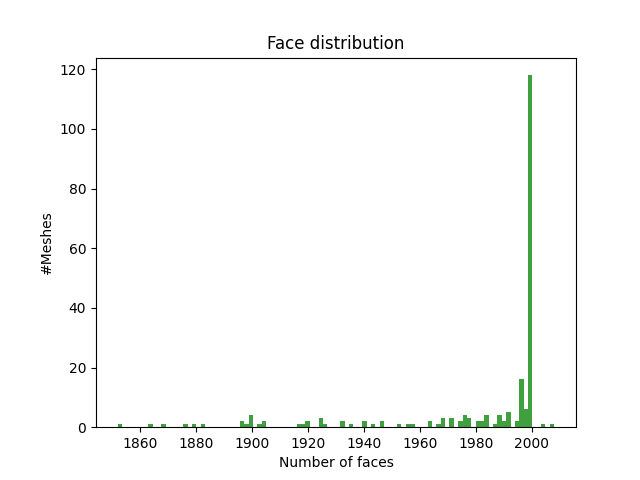
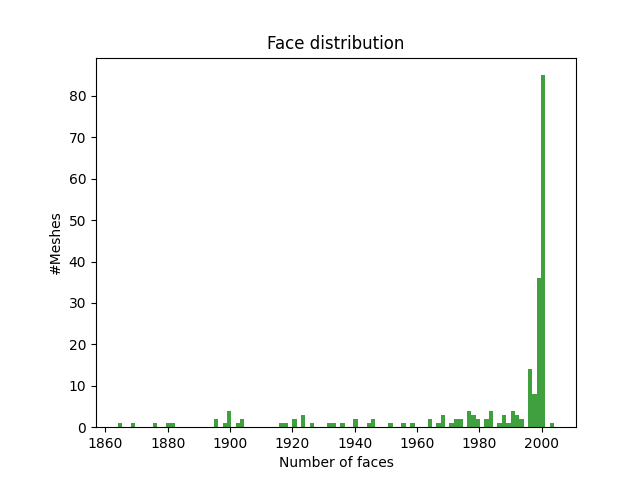
Fixed barycentre and scaling function

diff --git a/preprocess.py b/preprocess.py
@@ -5,7 +5,7 @@ import trimesh
 import analyze
 import subdivision
 import utils
-
+import math
 
 def scale_mesh(mesh, scale):
   # Make a vector to scale x, y and z in the mesh to this value
@@ -31,6 +31,15 @@ def calc_center_mass(mesh):
 
   return meshCenter
 
+def barycenter(mesh):
+  #Returns the face area weighted barycentr of the mesh.
+  faces = np.asarray(mesh.faces)
+  weighted_vertices = []
+  for index, face in enumerate(faces):
+    weighted_vertices.append(mesh.area_faces[index] * utils.get_face_barycentre(face, mesh.vertices))
+  bary_centre = sum(weighted_vertices) / mesh.area
+  return bary_centre
+
 
 def save_mesh(mesh, path):
   utils.ensure_dir(path)
@@ -47,17 +56,14 @@ def save_mesh(mesh, path):
 #     save_mesh(refined_mesh, refined_path)
 #     trimesh.exchange.export.export_mesh(refined_mesh, refined_path, file_type="off")
 
-def normalize_mesh(path):
-  mesh = trimesh.load(path, force='mesh')
-
+def normalize_mesh(mesh):
   # Center the mass of the mesh on (0,0,0)
-  center_mass = calc_center_mass(mesh)
+  center_mass = barycenter(mesh)
   mesh.apply_translation(-center_mass)
 
   # Get the highest value we can scale with so it still fits within the unit cube
-  scale_value = 1 / max(mesh.bounds.flatten())
+  scale_value = 1 / max(abs(mesh.bounds.flatten()))
   mesh = scale_mesh(mesh, scale_value)
-
   return mesh
 
 
@@ -73,6 +79,9 @@ def process_all():
       mesh = subdivision.subdivide(mesh, utils.target_vertices)
     if row['supersampled_outlier']:
       mesh = subdivision.superdivide(mesh, utils.target_faces)
-
+    mesh = normalize_mesh(mesh)
     if analyze.barycentre_distance(mesh) < 1:
       save_mesh(mesh, refined_path)
+
+# mesh = trimesh.load('testModels/db/0/m0/m0.off', force='mesh')
+# normalize_mesh(mesh)

diff --git a/analyze.py b/analyze.py
@@ -49,7 +49,8 @@ def bounding_box(vertices):
 
 
 def barycentre_distance(mesh):
-  return math.sqrt(sum(preprocess.calc_center_mass(mesh) * preprocess.calc_center_mass(mesh)))
+  barycentre = preprocess.barycenter(mesh)
+  return math.sqrt(sum(barycentre * barycentre))
 
 
 def bounding_box_volume(mesh):

diff --git a/utils.py b/utils.py
@@ -24,3 +24,6 @@ def ensure_dir(file_path):
   directory = os.path.dirname(file_path)
   if not os.path.exists(directory):
     os.makedirs(directory)
+
+def get_face_barycentre(face, vertices):
+  return (vertices[face[0]] + vertices[face[1]] + vertices[face[2]]) / 3
